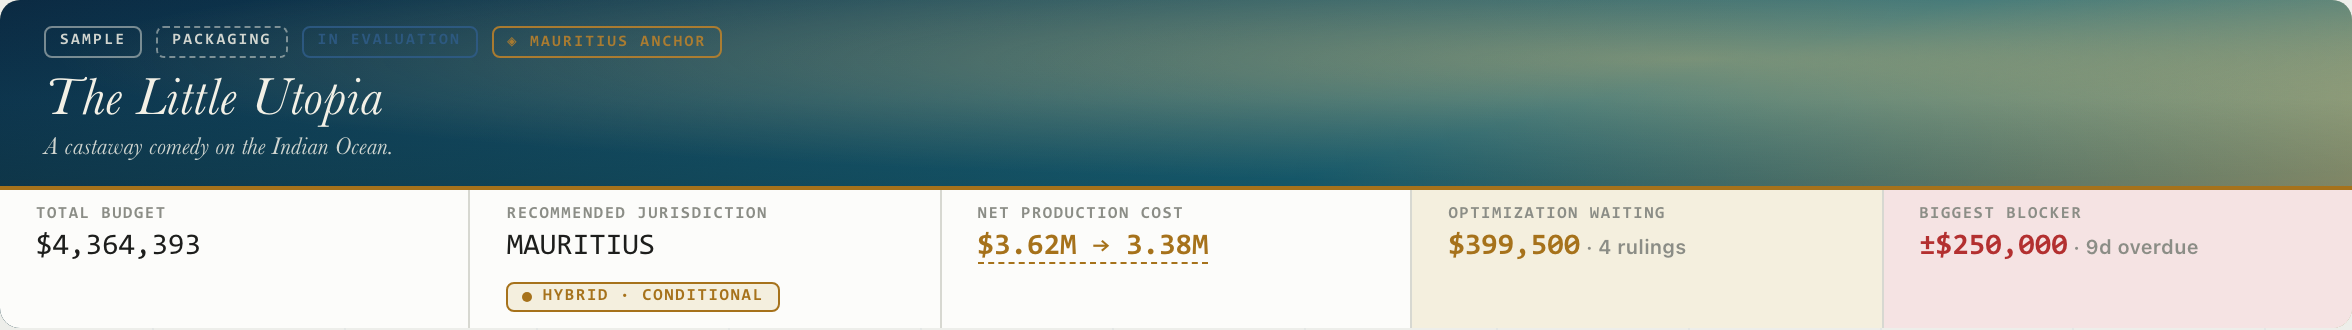
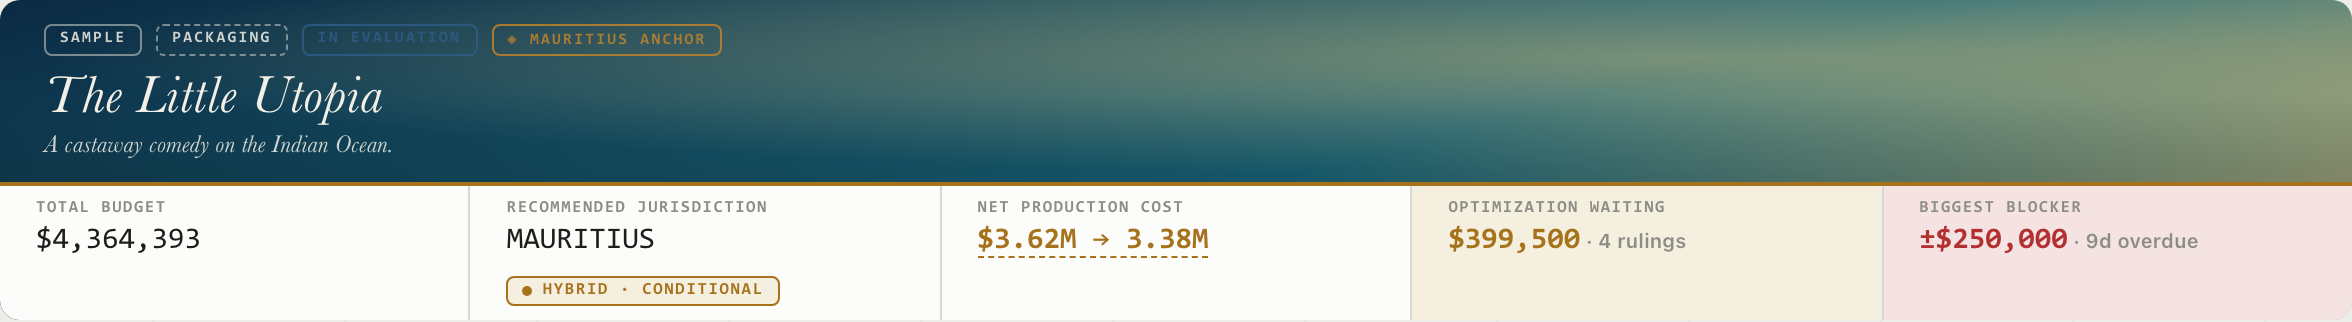
Refine Overview spacing, Optimization Queue dollar, and Scenarios table hierarchy
Cleanup-only artifact pass on the frozen Prototype v1 canon (b251f911). No globe
changes — the Workspace Map/Split already render the approved makeGlobe CineGlobe
(same engine as Company Globe); the canonical production globe is the React Globe3D
component and was not touched. Legacy .mapstation CSS left exactly as-is.

- Overview: tightened vertical spacing ~10% (hero id, stats, split gap/margin, ovsec
  padding/margin, section-header and sheetrow padding).
- Optimization Queue: strengthened the dollar hierarchy — headline value 21->26px,
  weight 700->800, tighter tracking; row amounts 13->14px.
- Scenarios comparison table: clearer hierarchy without structural/functional change —
  emphasized the Net-production-cost decision row (gold top border, gold label, bold
  larger values), added a subtotal divider on Net benefit (new .sub styling hook),
  first-column separator, and row hover.

No React/backend/API changes. Fresh screenshots of every major screen; zero console errors.

diff --git a/frametax2/reference/artifacts/prototype-v1-updated.html b/frametax2/reference/artifacts/prototype-v1-updated.html
@@ -541,9 +541,13 @@ table.rec{width:100%;border-collapse:collapse;font-size:12px;background:var(--su
 .xcompare{overflow-x:auto}
 table.xc{border-collapse:collapse;width:100%;font-size:12px;min-width:760px}
 .xc th{text-align:left;font:600 11px var(--f-body);letter-spacing:0;color:var(--text-2);padding:8px 14px;border-bottom:2px solid var(--text)}
+.xc td:first-child,.xc th:first-child{border-right:1px solid var(--border)}
+.xc tbody tr:not(.win):hover td{background:var(--surface-2)}
 .xc td{padding:10px 14px;border-bottom:1px solid var(--border);font-family:var(--f-mono);font-variant-numeric:tabular-nums}
 .xc td.lbl{font-family:var(--f-body);color:var(--text-2);font-size:11.5px}
-.xc tr.win td{background:var(--value-dim)}
+.xc tr.sub td{border-top:1px solid var(--border-strong);color:var(--text)}
+.xc tr.win td{background:var(--value-dim);border-top:2px solid var(--value);font-weight:700;font-size:13px;padding-top:12px;padding-bottom:12px}
+.xc tr.win td.lbl{color:var(--value);font-weight:700}
 .xc th .nm{font:600 12.5px var(--f-body);letter-spacing:0;text-transform:none;color:var(--text)}
 .xc th .sub{display:block;font:9px var(--f-mono);color:var(--text-3);letter-spacing:.06em}
 
@@ -728,7 +732,7 @@ table.qt{width:100%;font-size:12px;border-collapse:collapse}
 .qt td.sw2{font-family:var(--f-mono);font-variant-numeric:tabular-nums;text-align:right;white-space:nowrap}
 .qt td.st{font:10px var(--f-mono);color:var(--text-3);white-space:nowrap;text-align:right}
 .qt td.st .late{color:var(--error);font-weight:700}
-.sheetrow{display:flex;justify-content:space-between;gap:10px;padding:6px 14px;border-top:1px solid var(--border);font-size:12px}
+.sheetrow{display:flex;justify-content:space-between;gap:10px;padding:5px 14px;border-top:1px solid var(--border);font-size:12px}
 .sheetrow:first-of-type{border-top:none}
 .sheetrow span:first-child{color:var(--text-2)}
 .sheetrow .mono{font-family:var(--f-mono);font-variant-numeric:tabular-nums;white-space:nowrap}
@@ -817,12 +821,12 @@ table.qt{width:100%;font-size:12px;border-collapse:collapse}
   box-shadow:inset 0 0 0 1px rgba(154,110,20,.22)}
 .ov2-hero .bg{position:absolute;inset:0}
 .ov2-hero .bg::after{content:"";position:absolute;inset:0;background:linear-gradient(180deg,rgba(10,12,10,.06) 30%,rgba(10,12,10,.5))}
-.ov2-hero .id{position:relative;z-index:2;padding:13px 22px 11px;color:#F2F0E6}
+.ov2-hero .id{position:relative;z-index:2;padding:12px 22px 10px;color:#F2F0E6}
 .ov2-hero .pillrow{display:flex;gap:7px;margin-bottom:6px;flex-wrap:wrap}
 .ov2-hero h2{font-family:var(--f-disp);font-style:italic;font-weight:400;font-size:27px;margin:0;color:#F2F0E6;text-transform:none;letter-spacing:.01em;line-height:1.04}
 .ov2-hero .log2{font-family:var(--f-disp);font-style:italic;font-size:12.5px;opacity:.85;margin-top:1px}
 .ov2-stats{position:relative;z-index:2;display:flex;gap:0;background:var(--surface);border-top:2px solid var(--value);color:var(--text)}
-.ov2-stats .st{flex:1;padding:8px 18px;border-left:1px solid var(--border)}
+.ov2-stats .st{flex:1;padding:7px 18px;border-left:1px solid var(--border)}
 .ov2-stats .st:first-child{border-left:none}
 .ov2-stats .st.key{background:var(--value-dim)}
 .ov2-stats .st.block{background:var(--error-dim)}
@@ -831,16 +835,16 @@ table.qt{width:100%;font-size:12px;border-collapse:collapse}
 .ov2-stats .st .v2 small{font-family:var(--f-body);font-size:10px;color:var(--text-3)}
 .ov2-stats .st .v2.gold{color:var(--value);font-weight:600}
 .ov2-stats .st.block .v2{color:var(--error);font-weight:600}
-.ov2-split{display:grid;grid-template-columns:1.5fr 1fr;gap:22px;margin-top:14px}
+.ov2-split{display:grid;grid-template-columns:1.5fr 1fr;gap:20px;margin-top:12px}
 /* optimization queue — money-first framing of the qualification assistant */
-.optq-head{display:flex;align-items:baseline;gap:10px;margin:0 0 9px;padding:9px 12px;background:var(--value-dim);border:1px solid var(--value);border-radius:7px}
-.optq-head .amt{font:700 21px var(--f-mono);font-variant-numeric:tabular-nums;color:var(--value);letter-spacing:-.01em;line-height:1}
+.optq-head{display:flex;align-items:center;gap:11px;margin:0 0 9px;padding:10px 13px;background:var(--value-dim);border:1px solid var(--value);border-radius:7px}
+.optq-head .amt{font:800 26px var(--f-mono);font-variant-numeric:tabular-nums;color:var(--value);letter-spacing:-.02em;line-height:.95}
 .optq-head .lbl{font:600 11.5px var(--f-body);color:var(--text)}
 .optq-head .sub{margin-left:auto;font:500 10.5px var(--f-body);color:var(--text-2);text-align:right}
 .optq-row{display:flex;align-items:center;gap:12px;padding:8px 2px;border-top:1px solid var(--border);cursor:pointer}
 .optq-row:first-of-type{border-top:none}
 .optq-row:hover{background:var(--surface-2)}
-.optq-row .amt{font:700 13px var(--f-mono);font-variant-numeric:tabular-nums;color:var(--value);white-space:nowrap;min-width:82px;text-align:right}
+.optq-row .amt{font:700 14px var(--f-mono);font-variant-numeric:tabular-nums;color:var(--value);white-space:nowrap;min-width:86px;text-align:right}
 .optq-row.hot .amt{color:var(--warning)}
 .optq-row .body{min-width:0;flex:1}
 .optq-row .body b{font-size:12px;font-weight:600}
@@ -853,8 +857,8 @@ table.qt{width:100%;font-size:12px;border-collapse:collapse}
 .refrow-h b{font:650 13px var(--f-body);letter-spacing:-.005em}
 .refrow-cite{font:10.5px var(--f-mono);color:var(--text-3);margin-top:4px}
 @media(max-width:1150px){.ov2-split{grid-template-columns:1fr}}
-.ovsec{background:var(--surface);border:1px solid var(--border);border-radius:8px;padding:11px 16px 9px;margin-bottom:12px}
-.ovsec .oh{display:flex;align-items:baseline;gap:8px;margin-bottom:6px}
+.ovsec{background:var(--surface);border:1px solid var(--border);border-radius:8px;padding:10px 16px 8px;margin-bottom:11px}
+.ovsec .oh{display:flex;align-items:baseline;gap:8px;margin-bottom:5px}
 .ovsec .oh b{font-size:13px;font-weight:650;letter-spacing:-.005em}
 .ovsec .oh .n{font:600 11px var(--f-mono);color:var(--value)}
 .ovsec .oh .act{margin-left:auto;font:500 11.5px var(--f-body);color:var(--accent);cursor:pointer}
@@ -1874,7 +1878,7 @@ function prodScenariosHTML(prod){
       var row = l.rows.filter(function(r){return r[0]===f[0]})[0];
       return '<td class="'+(row&&row[2]?row[2]:'')+'">'+(row?row[1]:'—')+'</td>';}).join('')+'</tr>';
   }).join('');
-  var benefitRow = '<tr><td class="lbl">Net benefit</td>'+cols.map(function(l){
+  var benefitRow = '<tr class="sub"><td class="lbl">Net benefit</td>'+cols.map(function(l){
     return '<td class="'+(l.netCls||'')+'">'+l.net+'</td>';}).join('')+'</tr>';
   var netRow = '<tr class="win"><td class="lbl" style="font-weight:700">Net production cost</td>'+cols.map(function(l){
     return '<td style="font-weight:700"><span class="tracelink" data-trace="'+state.prod+'">'+(l.cost||l.net)+'</span></td>';}).join('')+'</tr>';
